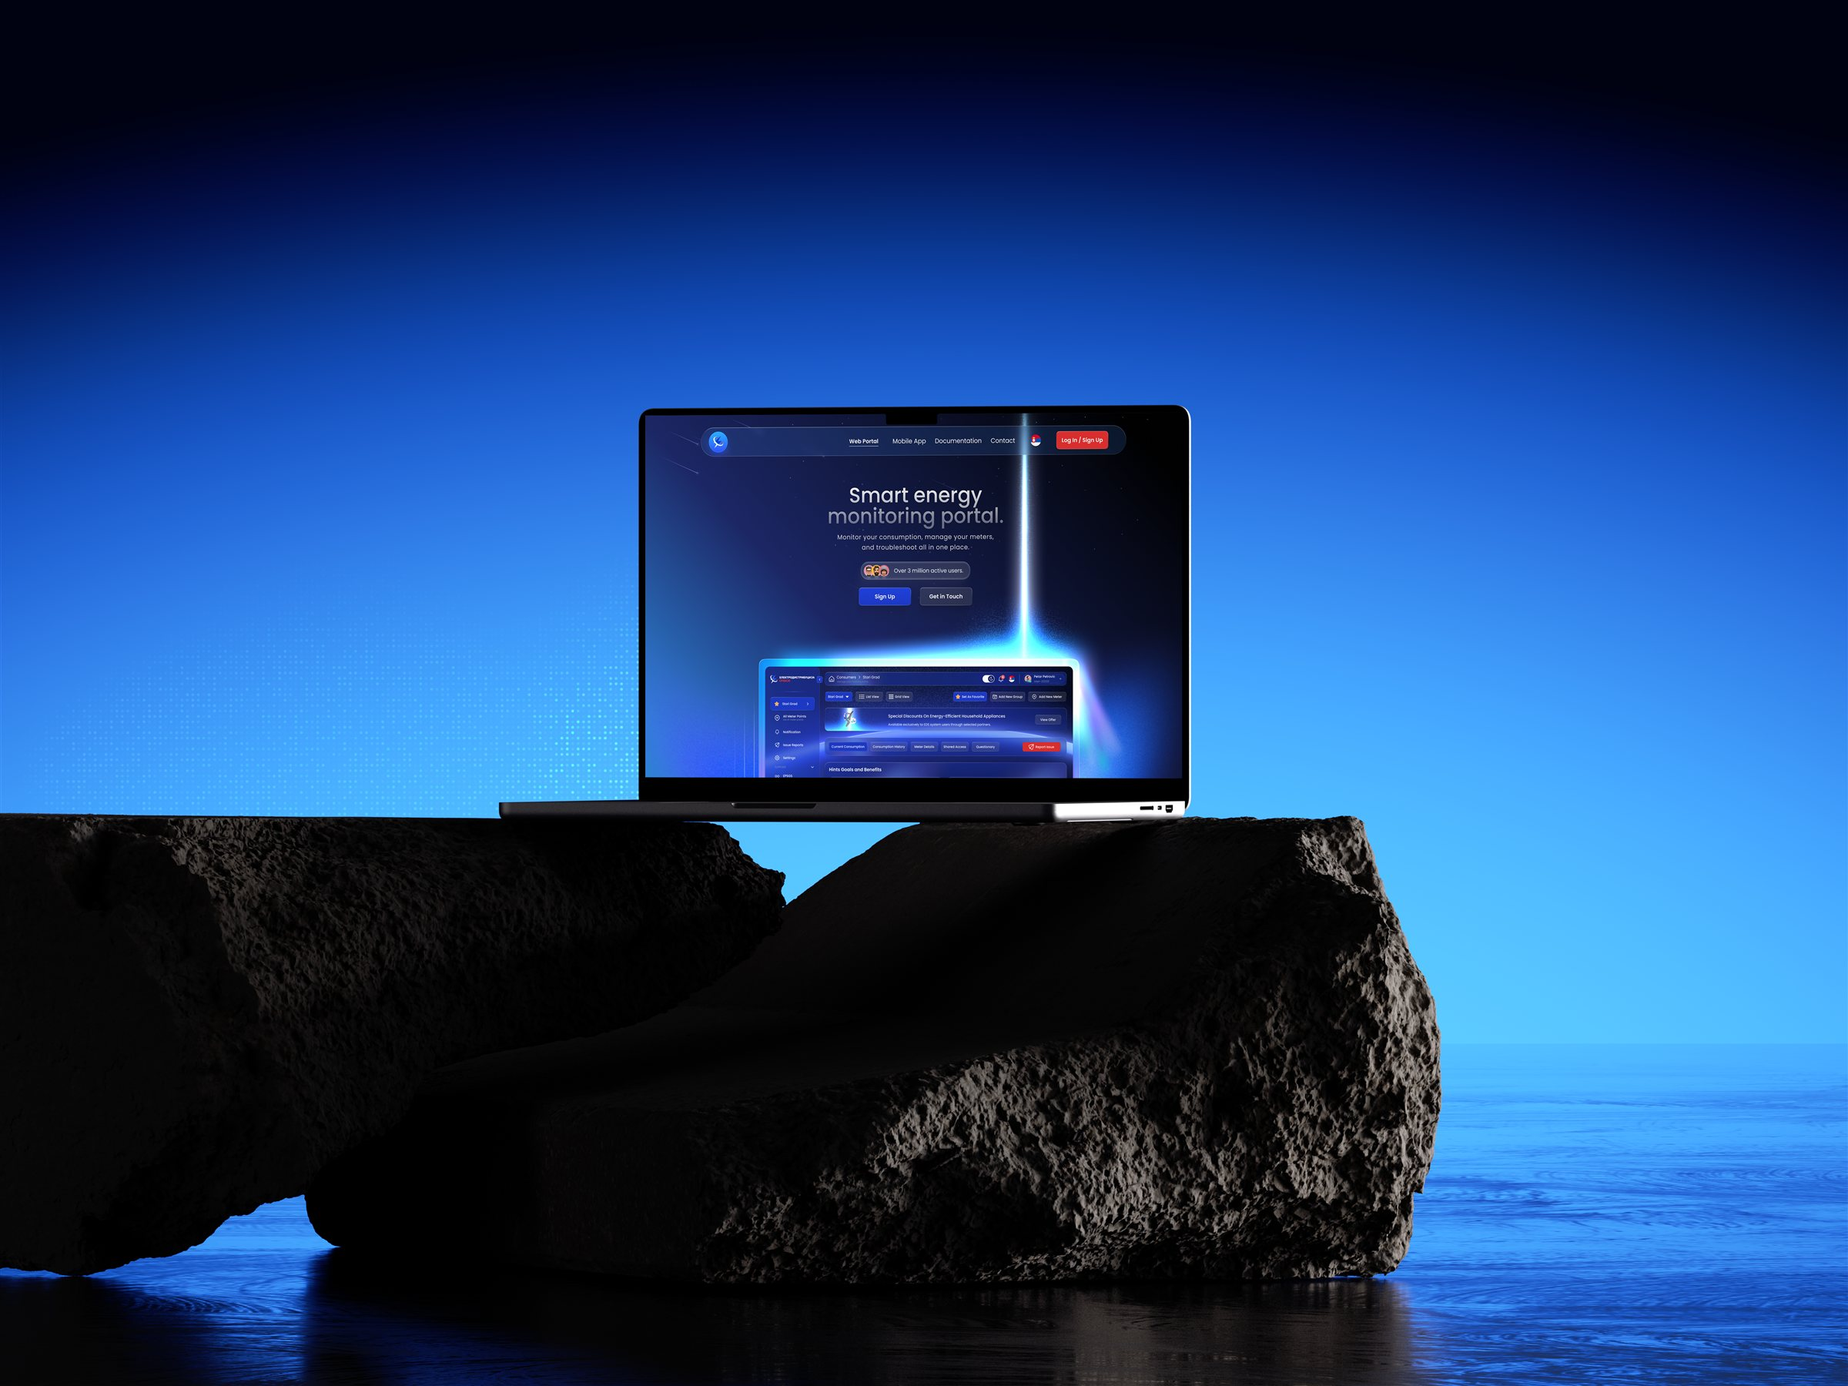
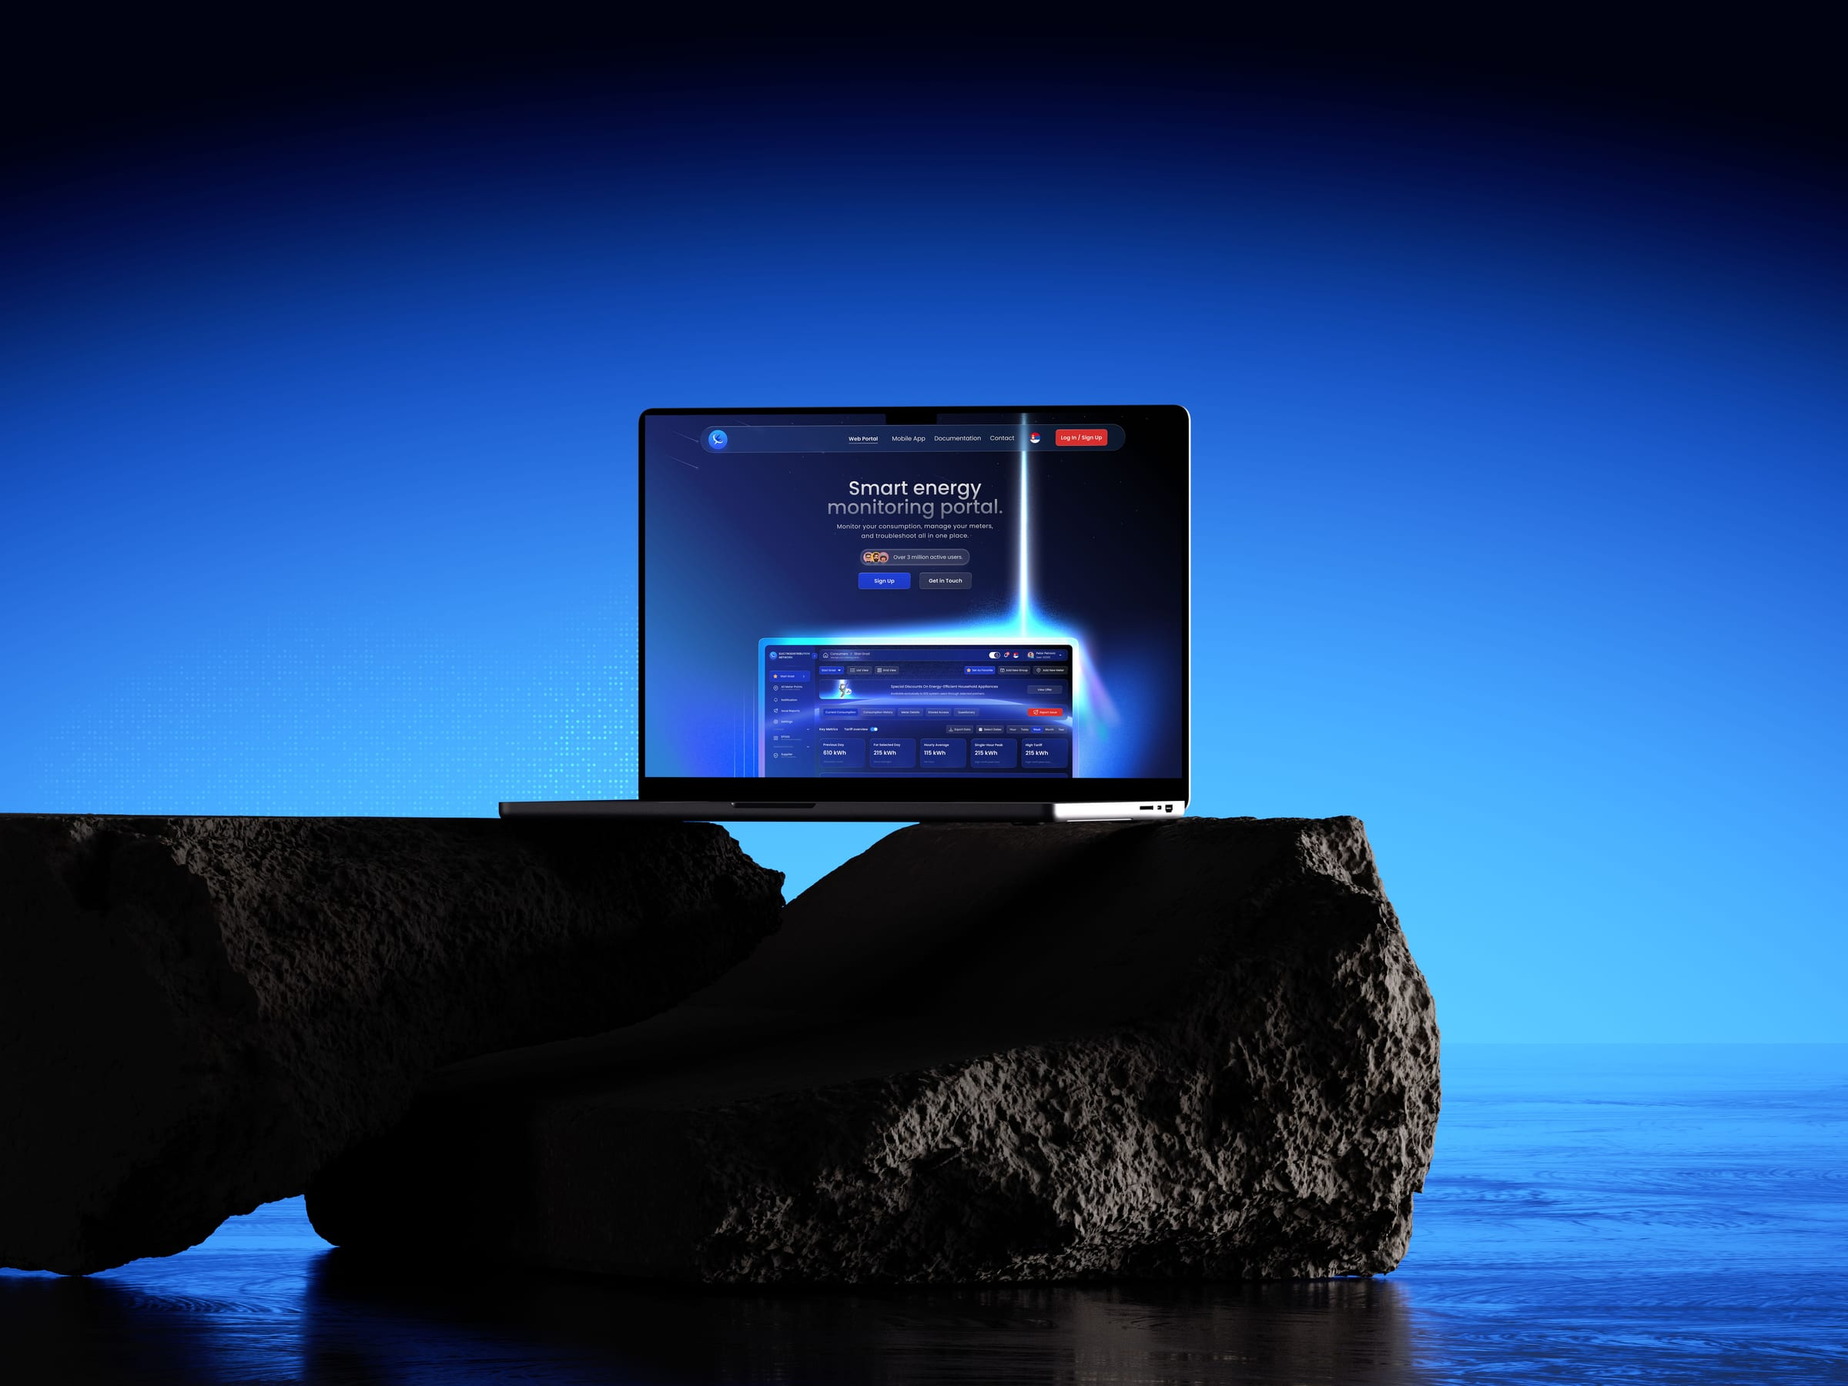
feat: rebrand EDS to EDN Energy, fix broken cover images, add EDN1-5 gallery
Replace missing cover.png/cover2.png references with the actual portal and
thumbnail images, and add the EDN1-5 screenshots as a stacked full-width
gallery matching the Swift Pay project layout. Images are downscaled and
recompressed (EDN1-5 + thumbnail: ~118MB -> ~11MB combined, portal.jpg
1.4MB -> 0.22MB).

Changed region(s): [[0.375, 0.3111, 0.6562, 0.56], [0.375, 0.3111, 0.4062, 0.3422]]

diff --git a/HTML/project-eds-energy-monitoring-platform.html b/HTML/project-eds-energy-monitoring-platform.html
@@ -5,10 +5,10 @@
     <meta charset="UTF-8">
 
     <!-- Page Title -->
-    <title>EDS Energy Monitoring Platform - Sovilj Design</title>
+    <title>EDN Energy Monitoring Platform - Sovilj Design</title>
 
     <!-- Meta Tags -->
-    <meta name="description" content="EDS Energy Monitoring Platform - a UI/UX case study by Sovilj Design covering SaaS dashboard and mobile app design.">
+    <meta name="description" content="EDN Energy Monitoring Platform - a UI/UX case study by Sovilj Design covering SaaS dashboard and mobile app design.">
     <meta name="keywords" content="mix_design, resume, portfolio, personal page, cv, template, one page, responsive, html5, css3, creative, clean">
     <meta name="author" content="mix_design">
 
@@ -24,12 +24,12 @@
     <!-- Template Favicon & Icons End -->
 
     <!-- Facebook Metadata Start -->
-    <meta property="og:image:height" content="1200">
-    <meta property="og:image:width" content="1200">
-    <meta property="og:title" content="EDS Energy Monitoring Platform - Sovilj Design">
-    <meta property="og:description" content="EDS Energy Monitoring Platform - a UI/UX case study by Sovilj Design covering SaaS dashboard and mobile app design.">
+    <meta property="og:image:height" content="5394">
+    <meta property="og:image:width" content="7192">
+    <meta property="og:title" content="EDN Energy Monitoring Platform - Sovilj Design">
+    <meta property="og:description" content="EDN Energy Monitoring Platform - a UI/UX case study by Sovilj Design covering SaaS dashboard and mobile app design.">
     <meta property="og:url" content="https://soviljdesign.com/project-eds-energy-monitoring-platform">
-    <meta property="og:image" content="https://soviljdesign.com/img/works/eds-energy/cover2.png">
+    <meta property="og:image" content="https://soviljdesign.com/img/works/eds-energy/thumbnail.png">
     <!-- Facebook Metadata End -->
 
     <!-- Template Styles Start -->
@@ -420,7 +420,7 @@
                             <span class="mxd-scramble">Works</span>
                           </a>
                         </span>
-                        <span class="current-item">EDS Energy Monitoring Platform
+                        <span class="current-item">EDN Energy Monitoring Platform
                         </span>
                       </div>
                     </div>
@@ -432,7 +432,7 @@
                         <div class="row g-0">
                           <div class="col-12 col-xl-9 mxd-grid-item">
                             <div class="inner-headline__title no-sup pre-subtitle-large">
-                              <h1 class="large loading-split" style="white-space: normal;">EDS Portal</h1>
+                              <h1 class="large loading-split" style="white-space: normal;">EDN Portal</h1>
                             </div>
                             <div class="inner-headline__subtitle">
                               <p class="loading-split">SaaS dashboard <span>for real-time energy monitoring</span></p>
@@ -502,7 +502,7 @@
                       </div>
                       <div class="mxd-block-split__manifest">
                         <p class="manifest manifest-s mxd-split-lines">
-                          EDS is a SaaS platform for real-time energy monitoring, bringing dashboard
+                          EDN is a SaaS platform for real-time energy monitoring, bringing dashboard
                           and mobile app together in one system.
                           <span>Designed for clarity, so complex energy data becomes easy to read at a glance.</span>
                         </p>
@@ -533,7 +533,7 @@
                           <div class="split-info__divider divider-top"></div>
                           <div class="split-info__details">
                             <p class="anim-uni-in-up">Name:
-                              <span>EDS Energy Monitoring Platform</span>
+                              <span>EDN Energy Monitoring Platform</span>
                             </p>
                           </div>
                           <div class="split-info__divider divider-bottom"></div>
@@ -543,7 +543,7 @@
                           <div class="split-info__divider divider-top"></div>
                           <div class="split-info__details">
                             <p class="anim-uni-in-up">Client:
-                              <span>EDS</span>
+                              <span>EDN</span>
                             </p>
                           </div>
                           <div class="split-info__divider divider-bottom"></div>
@@ -600,21 +600,37 @@
             <div class="mxd-images-grid">
               <div class="container-fluid p-0">
                 <div class="row g-0 mxd-images-grid__gallery">
-                  <div class="col-12 mxd-grid-item mxd-images-grid__item wide">
-                    <div class="mxd-images-grid__inner">
-                      <img class="parallax-img-small" src="img/works/eds-energy/cover2.png" alt="EDS Energy Monitoring Platform Dashboard on Tablet">
+                  <div class="col-12 mxd-grid-item mxd-images-grid__item wide" style="margin-bottom: 0; height: auto; max-width: 1400px; margin-left: auto; margin-right: auto;">
+                    <div class="mxd-images-grid__inner" style="aspect-ratio: 7192 / 5394; height: auto;">
+                      <img src="img/works/eds-energy/EDN1.png" alt="EDN Energy Monitoring Platform Screen 1">
                     </div>
                   </div>
                 </div>
                 <div class="row g-0 mxd-images-grid__gallery">
-                  <div class="col-12 col-xl-6 mxd-grid-item mxd-images-grid__item">
-                    <div class="mxd-images-grid__inner">
-                      <img class="transparent" src="img/works/eds-energy/cover.png" alt="EDS Energy Monitoring Platform on Laptop">
+                  <div class="col-12 mxd-grid-item mxd-images-grid__item wide" style="margin-bottom: 0; height: auto; max-width: 1400px; margin-left: auto; margin-right: auto;">
+                    <div class="mxd-images-grid__inner" style="aspect-ratio: 3596 / 6669; height: auto;">
+                      <img src="img/works/eds-energy/EDN2.png" alt="EDN Energy Monitoring Platform Screen 2">
                     </div>
                   </div>
-                  <div class="col-12 col-xl-6 mxd-grid-item mxd-images-grid__item">
-                    <div class="mxd-images-grid__inner">
-                      <img class="parallax-img-small" src="img/works/eds-energy/portal.jpg" alt="EDS Energy Monitoring Platform Landing Page">
+                </div>
+                <div class="row g-0 mxd-images-grid__gallery">
+                  <div class="col-12 mxd-grid-item mxd-images-grid__item wide" style="margin-bottom: 0; height: auto; max-width: 1400px; margin-left: auto; margin-right: auto;">
+                    <div class="mxd-images-grid__inner" style="aspect-ratio: 3596 / 7713; height: auto;">
+                      <img src="img/works/eds-energy/EDN3.png" alt="EDN Energy Monitoring Platform Screen 3">
+                    </div>
+                  </div>
+                </div>
+                <div class="row g-0 mxd-images-grid__gallery">
+                  <div class="col-12 mxd-grid-item mxd-images-grid__item wide" style="margin-bottom: 0; height: auto; max-width: 1400px; margin-left: auto; margin-right: auto;">
+                    <div class="mxd-images-grid__inner" style="aspect-ratio: 3596 / 8893; height: auto;">
+                      <img src="img/works/eds-energy/EDN4.png" alt="EDN Energy Monitoring Platform Screen 4">
+                    </div>
+                  </div>
+                </div>
+                <div class="row g-0 mxd-images-grid__gallery">
+                  <div class="col-12 mxd-grid-item mxd-images-grid__item wide" style="height: auto; max-width: 1400px; margin-left: auto; margin-right: auto;">
+                    <div class="mxd-images-grid__inner" style="aspect-ratio: 3596 / 11370; height: auto;">
+                      <img src="img/works/eds-energy/EDN5.png" alt="EDN Energy Monitoring Platform Screen 5">
                     </div>
                   </div>
                 </div>
@@ -680,7 +696,7 @@
                             <p class="anim-uni-in-up">Branding</p>
                           </div>
                           <div class="split-data__descr">
-                            <p class="t-medium anim-uni-in-up">The project relies on a minimal yet expressive identity that highlights EDS's character. Carefully selected colors, type, and graphic accents reinforce recognition and visual cohesion.</p>
+                            <p class="t-medium anim-uni-in-up">The project relies on a minimal yet expressive identity that highlights EDN's character. Carefully selected colors, type, and graphic accents reinforce recognition and visual cohesion.</p>
                           </div>
                           <div class="split-data__divider divider-bottom"></div>
                         </div>
@@ -708,44 +724,6 @@
       </div>
       <!-- Section - Split List v02 End -->
 
-      <!-- Section - Images Grid Simple Start -->
-      <div class="mxd-section blur-section">
-        <div class="mxd-container grid-l-container">
-
-          <!-- Block - Images Grid Start -->
-          <div class="mxd-block">
-            <div class="mxd-images-grid">
-              <div class="container-fluid p-0">
-                <div class="row g-0 mxd-images-grid__gallery">
-                  
-                  <div class="col-12 col-xl-6 mxd-grid-item mxd-images-grid__item">
-                    <div class="mxd-images-grid__inner">
-                      <img class="parallax-img-small" src="img/works/eds-energy/cover2.png" alt="EDS Energy Monitoring Platform Dashboard Detail">
-                    </div>
-                  </div>
-                  <div class="col-12 col-xl-6 mxd-grid-item mxd-images-grid__item">
-                    <div class="mxd-images-grid__inner">
-                      <img class="transparent" src="img/works/eds-energy/cover.png" alt="EDS Energy Monitoring Platform on Laptop Detail">
-                    </div>
-                  </div>
-                </div>
-                <div class="row g-0 mxd-images-grid__gallery">
-                  <div class="col-12 mxd-grid-item mxd-images-grid__item wide">
-                    <div class="mxd-images-grid__inner">
-                      <img class="parallax-img-small" src="img/works/eds-energy/portal.jpg" alt="EDS Energy Monitoring Platform Landing Page Wide">
-                    </div>
-                  </div>
-                </div>
-                
-              </div>
-            </div>
-          </div>
-          <!-- Block - Images Grid End -->
-
-        </div>
-      </div>
-      <!-- Section - Images Grid Simple End -->
-
       <!-- Section - Split List v02 Start -->
       <div class="mxd-section blur-section padding-top-subtitle padding-bottom-default">
         <div class="mxd-container grid-l-container">
@@ -764,7 +742,7 @@
                       </div>
                       <div class="mxd-block-split__manifest">
                         <p class="manifest manifest-s mxd-split-lines">
-                          EDS was designed with a focus on clarity across dashboard and mobile.
+                          EDN was designed with a focus on clarity across dashboard and mobile.
                           <span>A clean UI structure, scalable design system and subtle motion
                           create smooth interactions without sacrificing usability.</span>
                         </p>
@@ -830,7 +808,7 @@
       <div class="mxd-section blur-section">
         <div class="mxd-container fullwidth-container">
           <div class="mxd-divider">
-            <div class="mxd-divider__image divider-image-14 parallax-img" style="background-image: url('img/works/eds-energy/cover2.png');"></div>
+            <div class="mxd-divider__image divider-image-14 parallax-img" style="background-image: url('img/works/eds-energy/thumbnail.png');"></div>
           </div>
         </div>
       </div>

diff --git a/HTML/index-design-studio.html b/HTML/index-design-studio.html
@@ -736,15 +736,15 @@
                 <div class="row g-0 mxd-projects-grid__gallery">
                   <div class="col-12 col-md-6 col-xl-4 mxd-project-item animate-card-3">
                     <a class="mxd-project-item__media mxd-img-anim active-cursor-permanent" data-cursor-text="View Work" href="project-eds-energy-monitoring-platform.html">
-                      <img class="mxd-img-anim__absolute" src="img/works/eds-energy/cover2.png" alt="EDS Energy Monitoring Platform Preview Image">
-                      <img class="mxd-img-anim__absolute" src="img/works/eds-energy/cover2.png" alt="EDS Energy Monitoring Platform Preview Image">
-                      <img class="mxd-img-anim__absolute" src="img/works/eds-energy/cover2.png" alt="EDS Energy Monitoring Platform Preview Image">
-                      <img class="mxd-img-anim__absolute" src="img/works/eds-energy/cover2.png" alt="EDS Energy Monitoring Platform Preview Image">
-                      <img class="mxd-img-anim__main" src="img/works/eds-energy/cover2.png" alt="EDS Energy Monitoring Platform Preview Image">
+                      <img class="mxd-img-anim__absolute" src="img/works/eds-energy/thumbnail.png" alt="EDN Energy Monitoring Platform Preview Image">
+                      <img class="mxd-img-anim__absolute" src="img/works/eds-energy/thumbnail.png" alt="EDN Energy Monitoring Platform Preview Image">
+                      <img class="mxd-img-anim__absolute" src="img/works/eds-energy/thumbnail.png" alt="EDN Energy Monitoring Platform Preview Image">
+                      <img class="mxd-img-anim__absolute" src="img/works/eds-energy/thumbnail.png" alt="EDN Energy Monitoring Platform Preview Image">
+                      <img class="mxd-img-anim__main" src="img/works/eds-energy/thumbnail.png" alt="EDN Energy Monitoring Platform Preview Image">
                     </a>
                     <div class="mxd-project-item__caption">
                       <div class="mxd-project-item__name">
-                        <a class="project-name-s" href="project-eds-energy-monitoring-platform.html">EDS Energy Monitoring Platform</a>
+                        <a class="project-name-s" href="project-eds-energy-monitoring-platform.html">EDN Energy Monitoring Platform</a>
                       </div>
                       <div class="mxd-project-item__tags">
                         <span class="tag tag-s tag-medium mxd-scramble">UI/UX</span>

diff --git a/HTML/index.html b/HTML/index.html
@@ -579,15 +579,15 @@
                 <div class="row g-0 mxd-projects-grid__gallery">
                   <div class="col-12 col-md-6 col-xl-4 mxd-project-item animate-card-3">
                     <a class="mxd-project-item__media mxd-img-anim active-cursor-permanent" data-cursor-text="View Work" href="project-eds-energy-monitoring-platform.html">
-                      <img class="mxd-img-anim__absolute" src="img/works/eds-energy/cover2.png" alt="EDS Energy Monitoring Platform Preview Image">
-                      <img class="mxd-img-anim__absolute" src="img/works/eds-energy/cover2.png" alt="EDS Energy Monitoring Platform Preview Image">
-                      <img class="mxd-img-anim__absolute" src="img/works/eds-energy/cover2.png" alt="EDS Energy Monitoring Platform Preview Image">
-                      <img class="mxd-img-anim__absolute" src="img/works/eds-energy/cover2.png" alt="EDS Energy Monitoring Platform Preview Image">
-                      <img class="mxd-img-anim__main" src="img/works/eds-energy/cover2.png" alt="EDS Energy Monitoring Platform Preview Image">
+                      <img class="mxd-img-anim__absolute" src="img/works/eds-energy/thumbnail.png" alt="EDN Energy Monitoring Platform Preview Image">
+                      <img class="mxd-img-anim__absolute" src="img/works/eds-energy/thumbnail.png" alt="EDN Energy Monitoring Platform Preview Image">
+                      <img class="mxd-img-anim__absolute" src="img/works/eds-energy/thumbnail.png" alt="EDN Energy Monitoring Platform Preview Image">
+                      <img class="mxd-img-anim__absolute" src="img/works/eds-energy/thumbnail.png" alt="EDN Energy Monitoring Platform Preview Image">
+                      <img class="mxd-img-anim__main" src="img/works/eds-energy/thumbnail.png" alt="EDN Energy Monitoring Platform Preview Image">
                     </a>
                     <div class="mxd-project-item__caption">
                       <div class="mxd-project-item__name">
-                        <a class="project-name-s" href="project-eds-energy-monitoring-platform.html">EDS Energy Monitoring Platform</a>
+                        <a class="project-name-s" href="project-eds-energy-monitoring-platform.html">EDN Energy Monitoring Platform</a>
                       </div>
                       <div class="mxd-project-item__tags">
                         <span class="tag tag-s tag-medium mxd-scramble">UI/UX</span>

diff --git a/HTML/works-grid-sticky.html b/HTML/works-grid-sticky.html
@@ -442,7 +442,7 @@
             <div class="mxd-block">
               <!-- projects list -->
               <div class="mxd-projects-list no-margin-bottom">
-                <a class="mxd-projects-list__item active-cursor-image active-cursor-permanent" data-cursor-image="img/works/eds-energy/cover2.png" data-cursor-text="View Work" href="project-eds-energy-monitoring-platform.html">
+                <a class="mxd-projects-list__item active-cursor-image active-cursor-permanent" data-cursor-image="img/works/eds-energy/thumbnail.png" data-cursor-text="View Work" href="project-eds-energy-monitoring-platform.html">
                   <div class="mxd-projects-list__divider top"></div>
                   <div class="container-fluid px-0 mxd-projects-list__inner">
                     <div class="row gx-0">
@@ -453,7 +453,7 @@
                       </div>
                       <div class="col-12 col-xl-6 mxd-grid-padding">
                         <div class="mxd-projects-list__title">
-                          <h3>EDS Energy <span>Monitoring<br>Platform</span></h3>
+                          <h3>EDN Energy <span>Monitoring<br>Platform</span></h3>
                         </div>
                       </div>
                       <div class="col-6 col-md-6 col-xl-2 mxd-grid-padding">
